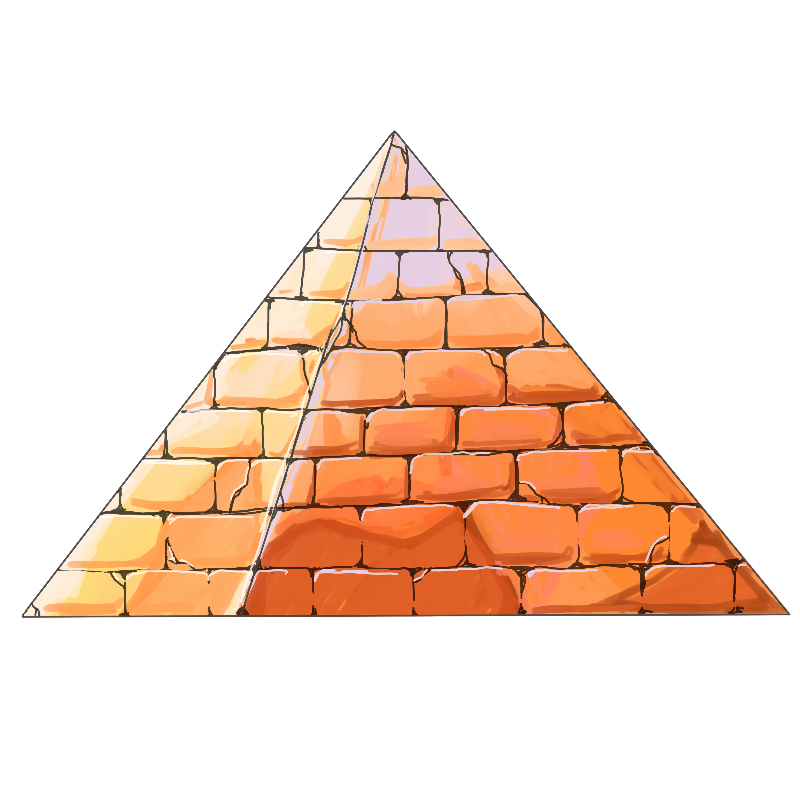
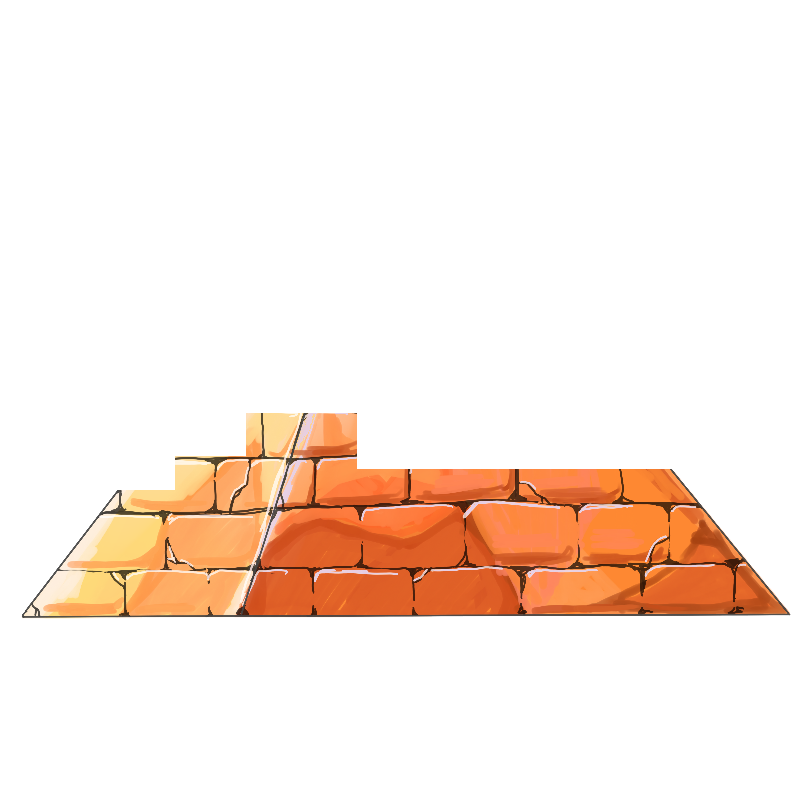
エリア3のボス思いつくバグはすべて解消

Changed region(s): [[0.1562, 0.1562, 0.8438, 0.625]]

diff --git a/Assets/Game/Enemy/DesertBoss/Script/DesertBossMove.cs b/Assets/Game/Enemy/DesertBoss/Script/DesertBossMove.cs
@@ -43,7 +43,6 @@ public class DesertBossMove : MonoBehaviour
 
     private VibrationCamera vibration;  //　振動用
     public bool Setvibratioin = false;
-    private Directing_BossLight LightEffect;  // 爆発エフェクト用
 
     private float Appearance_probability;        //　出現確率
 
@@ -52,6 +51,8 @@ public class DesertBossMove : MonoBehaviour
     [SerializeField,Header("ゲートの座標")]
     private Transform gatepos;
 
+    [SerializeField, Header("スフィンクス")]
+    private GameObject Sqhinx;
     public enum DesertBossState
     {
         NONE,   // 何もしていない
@@ -95,7 +96,7 @@ public class DesertBossMove : MonoBehaviour
         anim = transform.GetChild(0).GetComponent<Animator>();
 
         vibration = GameObject.Find("Main Camera").GetComponent<VibrationCamera>();
-        LightEffect = transform.GetChild(0).transform.GetChild(0).GetComponent<Directing_BossLight>();  //爆発用
+        //LightEffect = transform.GetChild(0).transform.GetChild(0).GetComponent<Directing_BossLight>();  //爆発用
 
         Appearance_probability = 20.0f; //20％の確率に設定
 
@@ -219,7 +220,7 @@ public class DesertBossMove : MonoBehaviour
                 // どれかが生成中or片付け中で振動していなかったら
                 if (((Pyramid1 && Pyramid2 && Pyramid3) || (Pyramid1_c && Pyramid2_c && Pyramid3_c)) && !Setvibratioin)
                 {
-                    vibration.SetVibration(2.0f);
+                    vibration.SetVibration(1.0f);
                     Setvibratioin = true;
                 }
 
@@ -253,7 +254,13 @@ public class DesertBossMove : MonoBehaviour
             if (TimeMeasure > EndTime)
             {
                 PyramidClean();
-                LightEffect.Flash();
+
+                if (!Sqhinx)
+                {
+                    Destroy(gameObject);
+                }
+
+                //LightEffect.Flash();
                 //Destroy(gameObject);
             }
             else
@@ -322,9 +329,12 @@ public class DesertBossMove : MonoBehaviour
     //　ピラミッドを片付ける処理
     private void PyramidClean()
     {
-        Pyramid_parent[0].transform.GetChild(0).gameObject.GetComponent<PyramidData>().Clean = true;
-        Pyramid_parent[1].transform.GetChild(0).gameObject.GetComponent<PyramidData>().Clean = true;
-        Pyramid_parent[2].transform.GetChild(0).gameObject.GetComponent<PyramidData>().Clean = true;
+        if(Pyramid_parent[0].transform.childCount > 0)
+            Pyramid_parent[0].transform.GetChild(0).gameObject.GetComponent<PyramidData>().Clean = true;
+        if (Pyramid_parent[1].transform.childCount > 0)
+            Pyramid_parent[1].transform.GetChild(0).gameObject.GetComponent<PyramidData>().Clean = true;
+        if (Pyramid_parent[2].transform.childCount > 0)
+            Pyramid_parent[2].transform.GetChild(0).gameObject.GetComponent<PyramidData>().Clean = true;
     }
 
 }
